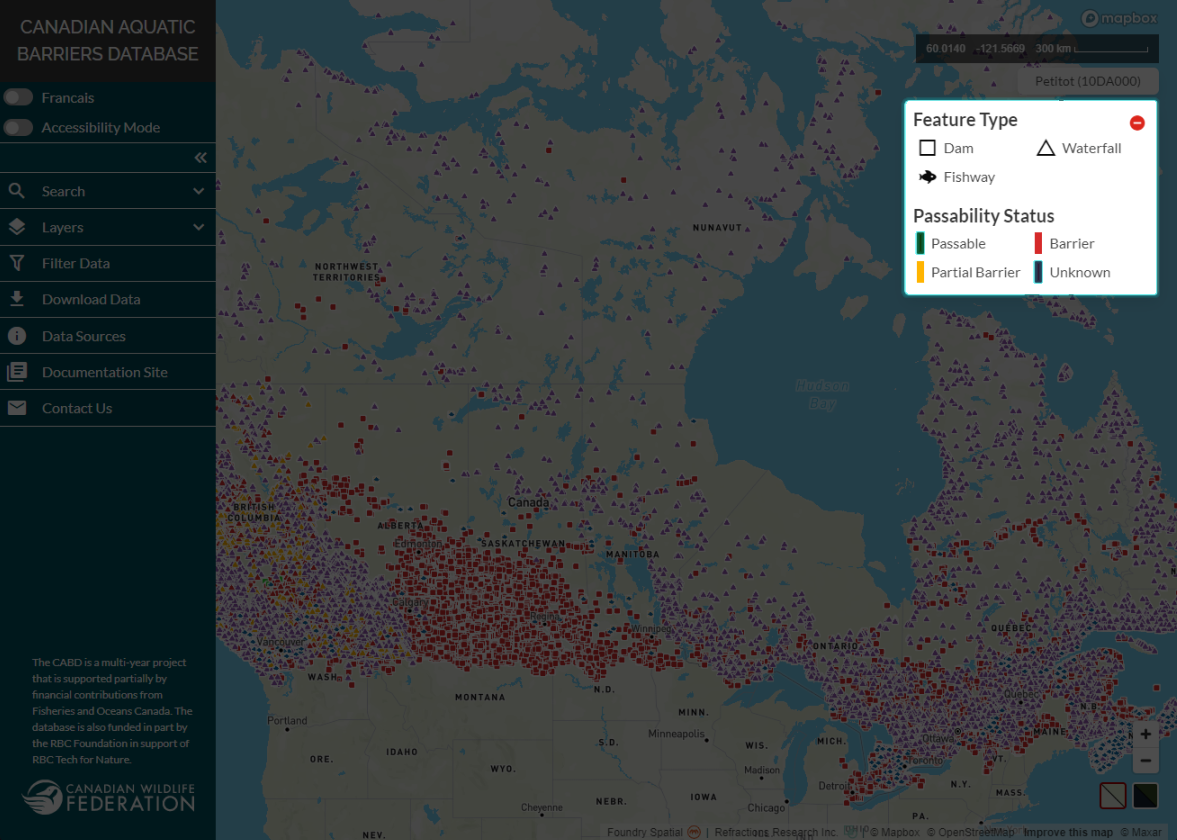
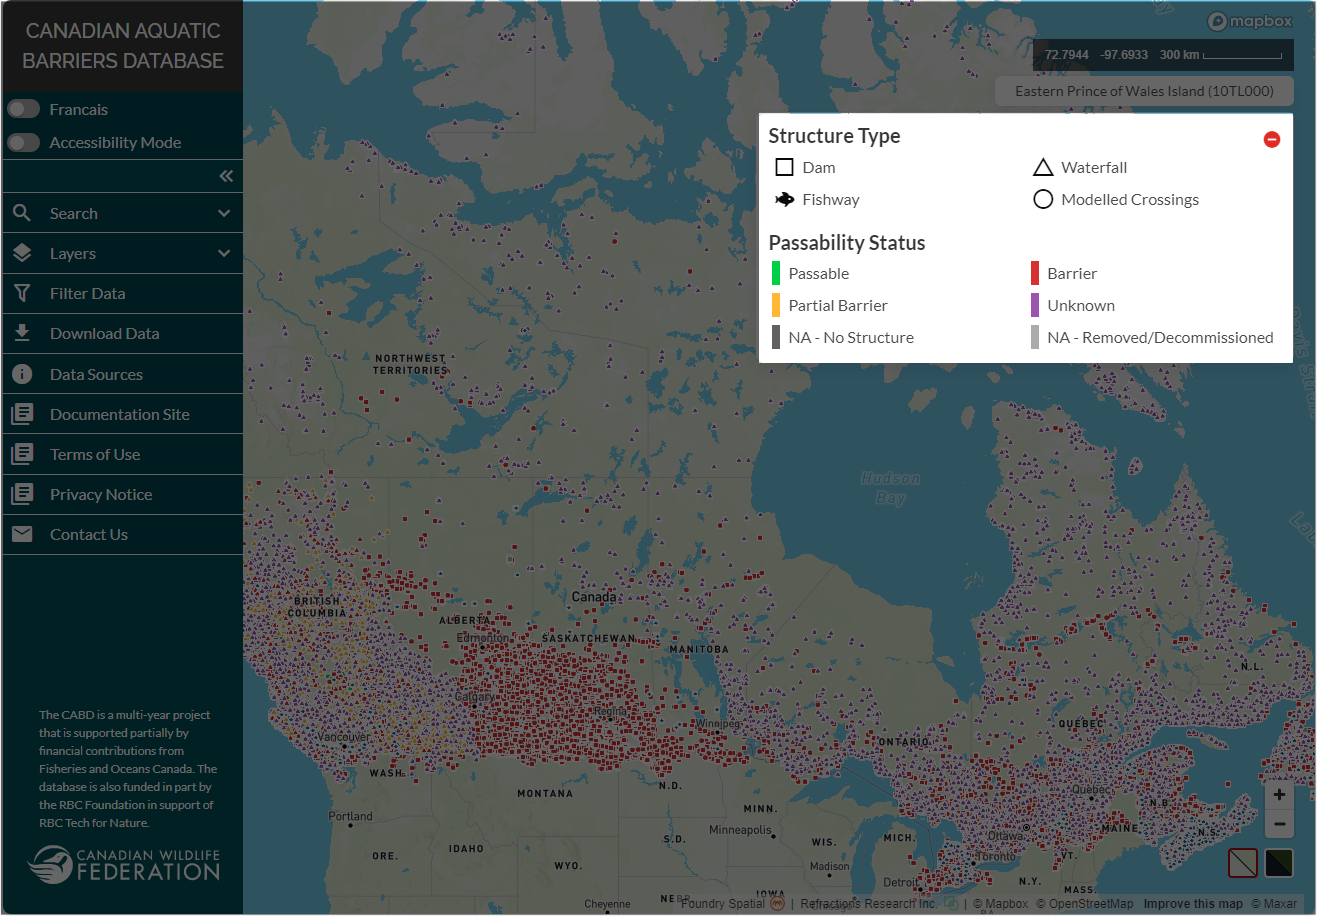
October Updates
Updates images + wording to reflect modelled crossings release.

diff --git a/docs/source/docs_user/docs_user_web_map/docs_user_web_map_tutorial_search.rst b/docs/source/docs_user/docs_user_web_map/docs_user_web_map_tutorial_search.rst
@@ -7,8 +7,8 @@ Searching
 The ‘Search’ tab is the first tab in the left-hand panel.
 
 .. figure:: img/search.png
-    :align: left
-    :width: 70%
+    :align: center
+    :width: 50%
 
 You can choose to search for a location or structure in a few different ways :
 
@@ -16,31 +16,37 @@ You can choose to search for a location or structure in a few different ways :
 
     .. figure:: img/place_search.png
         :align: left
-        :width: 40%
+        :width: 60%
 
-2. **Structure:** find a structure using the dam/structure name
+2. **Structure Name:** find a structure using the dam/structure name
 
     .. figure:: img/structure_search.png
         :align: left
-        :width: 40%
+        :width: 60%
 
 3. **CABD ID:** find a structure using the CABD ID (i.e., barrier identifier/system identifier seen in the ‘Attributes’ popup window)
 
     .. figure:: img/cabd_search.png
         :align: left
-        :width: 40%
+        :width: 60%
 
-4. **Lat/Lng:** find a specific geographic location using latitude and longitude values
+4. **Facility Name:** find a set of structures based on their facility name
+
+    .. figure:: img/facility_search.png
+        :align: left
+        :width: 80%
+
+5. **Lat/Lng:** find a specific geographic location using latitude and longitude values
 
     .. figure:: img/lat_search.png
         :align: left
-        :width: 40%
+        :width: 60%
 
-5. **EPSG:** find a geographic location using the x- and y-coordinates that correspond to a specific EPSG code.
+6. **EPSG:** find a geographic location using the x- and y-coordinates that correspond to a specific EPSG code.
 
     .. figure:: img/epsg_search.png
         :align: left
-        :width: 40%
+        :width: 60%
 
 Please watch the video below for a demonstration on how to user the search functionality to find a specific geographic location.
 

diff --git a/docs/source/docs_user/docs_user_web_map/docs_user_web_map_tutorial_filters.rst b/docs/source/docs_user/docs_user_web_map/docs_user_web_map_tutorial_filters.rst
@@ -7,8 +7,8 @@ Filtering Data
 To filter data based on a specific set of criteria, you will need to open the ‘Filters’ window by clicking the ‘Filter Data’ tab in the left-hand panel. 
 
 .. figure:: img/panel_filters_highlight_crop.png
-    :align: left
-    :width: 60%
+    :align: center
+    :width: 70%
 
 Filter by Location
 ------------------
@@ -61,10 +61,10 @@ Below the options to filter by location are the options to filter each feature t
 To exclude an entire feature type from being filtered, you can toggle it off by clicking the toggle switch on the left inside the ‘Filters’ window.
 
 .. figure:: img/filter_layers.png
-    :align: left
+    :align: center
     :width: 40%
 
-    Here, filters have been applied to only show data for dams.
+    Here, filters have been applied to only show data for dams, waterfalls, fishways, and modelled crossings.
 
 To view the filterable attributes for a specific feature type, expand the section and select criteria from the available options. The checkbox to the right of each attribute name can be used to reset or clear all checkboxes for the values listed below it. If an attribute value is checked, all features that contain this value in the database will appear in the map view window once the ‘Apply Filters’ button is clicked. If an attribute value is unchecked, all features that contain that value will be omitted from the results and not displayed in the map view window. 
 

diff --git a/docs/source/docs_user/docs_user_web_map/docs_user_web_map_tutorial_components.rst b/docs/source/docs_user/docs_user_web_map/docs_user_web_map_tutorial_components.rst
@@ -36,7 +36,7 @@ A legend defines the symbology of the data.
     :align: left
     :width: 90%
 
-Here, the feature type (i.e., dam, waterfall, or fishway) that a data point represents is defined using shape while the passability status of the feature is defined using colour. If you have difficulty distinguishing colours from each other, you can visualize data using the ‘accessibility mode’. See the topic :ref:`Visualizing Data <visualizing>` for more details.
+Here, the feature type (i.e., dam, waterfall, fishway or modelling crossings) that a data point represents is defined using shape while the passability status of the feature is defined using colour. If you have difficulty distinguishing colours from each other, you can visualize data using the ‘accessibility mode’. See the topic :ref:`Visualizing Data <visualizing>` for more details.
 
 .. figure:: img/legend_highlight.png
     :align: left

diff --git a/docs/source/docs_user/docs_user_web_map/docs_user_web_map_tutorial_data_vis.rst b/docs/source/docs_user/docs_user_web_map/docs_user_web_map_tutorial_data_vis.rst
@@ -4,13 +4,13 @@
 Visualizing Data
 ================
 
-When the web tool initially loads in your browser window, all feature layers (dams, waterfalls, and fishways) across Canada will be displayed by default, except for the NHN watershed boundaries layer which is toggled off. 
+When the web tool initially loads in your browser window, all feature layers (dams, waterfalls, fishways, and modelled crossings) across Canada will be displayed by default, except for the NHN watershed boundaries layer which is toggled off. 
 
 To change the visibility of data layers, navigate to the ‘Layers’ tab in the left-hand panel and click the eye icon.
 
 .. figure:: img/panel_layers_highlight_crop.png
-    :align: left
-    :width: 70%
+    :align: center
+    :width: 60%
 
 Please watch the video below for a demonstration on how to toggle the visibility of the layers in the left-hand panel.
 

diff --git a/docs/source/docs_user/docs_user_web_map/docs_user_web_map_tutorial_sources.rst b/docs/source/docs_user/docs_user_web_map/docs_user_web_map_tutorial_sources.rst
@@ -7,7 +7,7 @@ Data Sources
 Data source information for all spatial and non-spatial sources can be accessed by navigating to the ‘Data Sources’ tab in the left-hand panel. When clicked, the ‘Data Sources’ page on the CABD documentation site will open in a new browser tab. 
 
 .. figure:: img/panel_data_sources_highlight.png
-    :align: left
+    :align: center
     :width: 90%
 
 There is a table on the ‘Data Sources’ page that you can search using the search box at the top right of the table. The ‘Data Source Short Name’ field contains hyperlinked values that will you to more detailed information about the data source when clicked.

diff --git a/docs/source/docs_user/docs_user_web_map/docs_user_web_map_tutorial_docs.rst b/docs/source/docs_user/docs_user_web_map/docs_user_web_map_tutorial_docs.rst
@@ -7,8 +7,8 @@ Documentation Site
 You can access the CABD documentation site by clicking the ‘Documentation Site’ tab in the left-hand panel. 
 
 .. figure:: img/panel_documentation_site_highlight.png
-    :align: left
-    :width: 90%
+    :align: center
+    :width: 70%
 
 The CABD documentation site contains a number of user resources and technical documentation that provide more information about the CABD web tool, the data held in the CABD, and the database architecture.
 

diff --git a/docs/source/docs_user/docs_user_web_map/docs_user_web_map_tutorial_download.rst b/docs/source/docs_user/docs_user_web_map/docs_user_web_map_tutorial_download.rst
@@ -7,7 +7,7 @@ Downloading Data
 Data can be downloaded by opening the ‘Download’ window. This window can be opened by clicking the ‘Download Data’ button in the ‘Filters’ window, or by navigating to the ‘Download Data’ tab in the left-hand panel.
 
 .. figure:: img/download_crop_highlight_crop.png
-    :align: left
+    :align: center
     :width: 90%
 
 There are three data set options you can choose from when downloading data:
